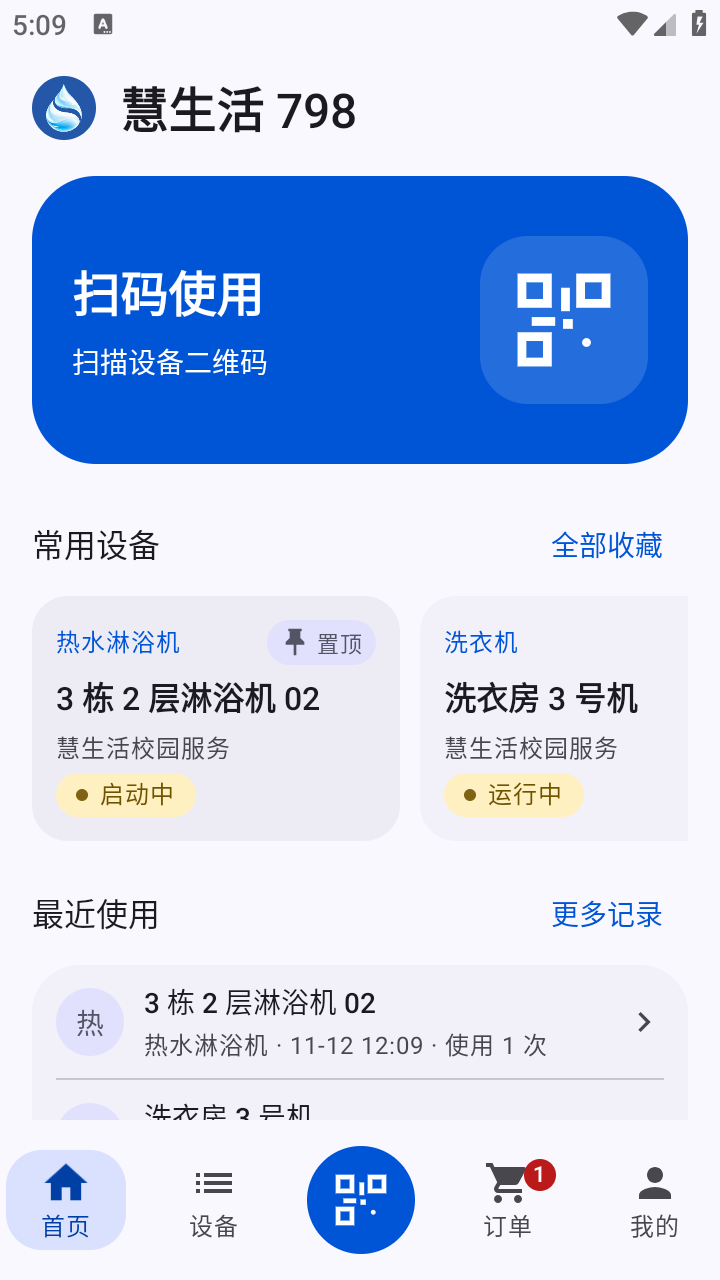
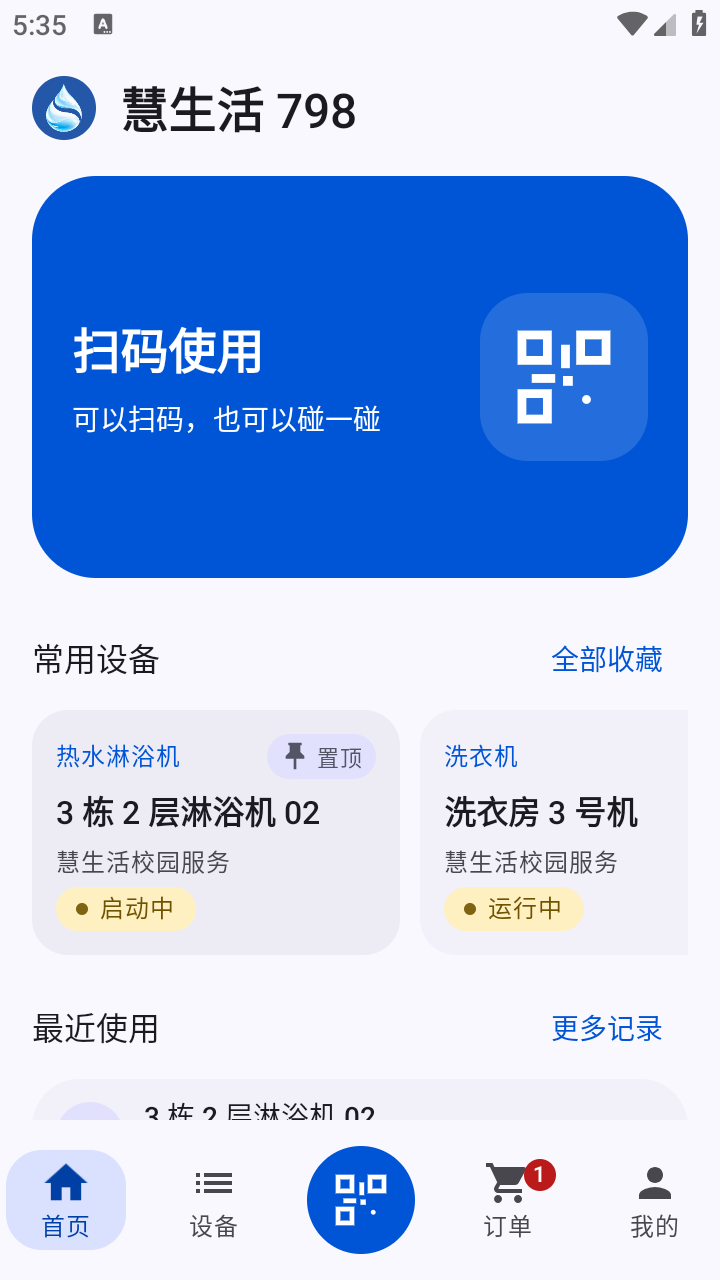
fix(ui): 恢复重构前扫码卡高度并补充碰一碰文案

diff --git a/SmartLife798/app/src/androidTest/java/com/smartlife798/app/VisualAlignmentChecks.kt b/SmartLife798/app/src/androidTest/java/com/smartlife798/app/VisualAlignmentChecks.kt
@@ -12,6 +12,7 @@ import androidx.activity.compose.setContent
 import androidx.lifecycle.ViewModelProvider
 import com.smartlife798.app.core.*
 import com.smartlife798.app.vm.MainViewModel
+import kotlin.math.roundToInt
 
 /** Capture the real navigation in light/dark themes, using only the runner's terminal fixtures. */
 object VisualAlignmentChecks {
@@ -58,6 +59,7 @@ object VisualAlignmentChecks {
                 if (theme != ThemeMode.LIGHT) open("首页")
                 stage = "home content $theme"
                 await { find(test, "扫码使用") != null }
+                check(find(test, "可以扫码，") != null && find(test, "也可以碰一碰") != null)
                 if (theme == ThemeMode.LIGHT) {
                     stage = "pinned home card retains its height"
                     await { vm.favorites.value.size >= 2 }
@@ -68,7 +70,11 @@ object VisualAlignmentChecks {
                     val height = test.targetContext.resources.displayMetrics.heightPixels
                     val density = test.targetContext.resources.displayMetrics.density
                     val scanCard = cardBounds(test, "扫码使用")
-                    check(scanCard.height() >= (144 * density).toInt()) { "Scan entry is too short: $scanCard" }
+                    val scanHeight = (201 * density).roundToInt()
+                    val fontScale = test.targetContext.resources.configuration.fontScale
+                    check(scanCard.height() >= scanHeight && (fontScale > 1f || scanCard.height() == scanHeight)) {
+                        "Unexpected scan card height: $scanCard"
+                    }
                     shell(test, "input swipe ${width / 2} ${height * 3 / 4} ${width / 2} ${height / 2} 250")
                     SystemClock.sleep(300)
                     val before = cardBounds(test, first.name)
@@ -76,7 +82,6 @@ object VisualAlignmentChecks {
                     check(before.left == scanCard.left && before.width() >= (174 * density).toInt()) {
                         "Favorite card is too narrow or misaligned: $before, scan=$scanCard"
                     }
-                    val fontScale = test.targetContext.resources.configuration.fontScale
                     if (fontScale <= 1f && scanCard.width() >= (288 * density).toInt()) {
                         check(scanCard.right - before.right >= (96 * density).toInt()) {
                             "Favorite card leaves too little room for the next device: $before, scan=$scanCard"

diff --git a/SmartLife798/app/src/main/java/com/smartlife798/app/ui/HomeScreen.kt b/SmartLife798/app/src/main/java/com/smartlife798/app/ui/HomeScreen.kt
@@ -286,7 +286,7 @@ private fun ScanHeroCard(onScan: () -> Unit, modifier: Modifier = Modifier) {
         Row(
             modifier = Modifier
                 .fillMaxWidth()
-                .heightIn(min = 144.dp)
+                .heightIn(min = 201.dp)
                 .padding(horizontal = 20.dp, vertical = AppLayout.Card),
             verticalAlignment = Alignment.CenterVertically,
             horizontalArrangement = Arrangement.spacedBy(16.dp),
@@ -297,7 +297,10 @@ private fun ScanHeroCard(onScan: () -> Unit, modifier: Modifier = Modifier) {
                     style = MaterialTheme.typography.headlineSmall,
                     fontWeight = FontWeight.SemiBold,
                 )
-                Text("扫描设备二维码", style = MaterialTheme.typography.bodyMedium)
+                FlowRow {
+                    Text("可以扫码，", style = MaterialTheme.typography.bodyMedium)
+                    Text("也可以碰一碰", style = MaterialTheme.typography.bodyMedium)
+                }
             }
             Box(
                 modifier = Modifier

diff --git a/docs/02-功能设计与UI方案.md b/docs/02-功能设计与UI方案.md
@@ -150,7 +150,7 @@ App
 - 顶部显示应用图标与「慧生活 798」，页面沿统一边距对齐，普通分组间隔为 12dp，支持下拉刷新。
 - **进行中使用卡片**优先置于扫码入口上方（主题 tertiary 色）：受理后先显示「启动待确认」，不显示用时或声称运行；确认后显示服务端状态、更新时间与本机用时。结束使用为卡片主按钮，下方提供查看设备和使用记录。结束期间保持卡片和「正在结束…」；未确认则提示并保留查询入口。返回首页与重建恢复、轮询及并发规则见 [启动确认与对账](03-技术方案与开发计划.md#31-全自动刷新无手动刷新按钮)。
 
-- **扫码主卡**：左侧放操作标题与说明，右侧放二维码图标，整卡最小高度为 144dp，上下与相邻区块至少间隔 16dp，点击卡片打开相机。
+- **扫码主卡**：左侧放操作标题与「可以扫码，也可以碰一碰」说明，右侧放二维码图标。整卡最小高度为重构前的 201dp，大字时随文案增高，上下与相邻区块至少间隔 16dp。点击卡片打开相机，碰一碰使用受支持的慧生活 NFC 卡片。
 - **常用设备**采用横滑卡片。多个收藏时，360dp 默认字号下单卡宽 184dp，让下一台设备露出更多；内容区能容纳两张易读卡片时并排完整展示。窄屏大字下卡片随字号加宽，单个收藏时占满内容区。卡片显示类型、名称、位置或编号、状态及置顶标记。
 - **最近使用**在同一容器中列出最多四条记录，使用紧凑的分隔行，每行触控区域至少 48dp；显示设备名称、类型、日期时间和使用次数。
 - 常用设备为空时提示从设备详情收藏，最近使用为空时提示暂无记录。
@@ -361,7 +361,7 @@ App
 
 | 页面 | 文件 | 来源与限制 |
 |---|---|---|
-| 首页 | [home.png](../screenshots/home.png) | 2.2.10 / 90 离线开发构建，API 28，默认字号 |
+| 首页 | [home.png](../screenshots/home.png) | 2.2.11 / 91 离线开发构建，API 28，默认字号 |
 | 设备 | [devices.png](../screenshots/devices.png) | 2.1.1，浅色列表、置顶优先与可辨识的未选中按钮 |
 | 订单 | [orders.png](../screenshots/orders.png) | 2.1.1，普通记录 |
 | 待付款 | [preview_bills.png](../screenshots/preview_bills.png) | 2.1.1，账单筛选 |
@@ -373,7 +373,7 @@ App
 | 提示条 | [notice.png](../screenshots/notice.png) | 1.19.6，真实 Snackbar + 虚构签到响应 |
 | 账单详情 | [bill_detail.png](../screenshots/bill_detail.png) | 当前离线开发构建，固定视口、左暂不支付右去支付且等宽等高 |
 | 浅色支付面板 | [payment.png](../screenshots/payment.png) | 2.1.1，仅读取渠道，零付款/命令请求 |
-| 深色首页 | [dark.png](../screenshots/dark.png) | 2.2.10 / 90 离线开发构建，API 28，默认字号 |
+| 深色首页 | [dark.png](../screenshots/dark.png) | 2.2.11 / 91 离线开发构建，API 28，默认字号 |
 | 深色外观 | [appearance_dark.png](../screenshots/appearance_dark.png) | 本次样式开发构建 2.1.2 / 70，API 28，深色更新按钮与选项层级 |
 | 深色支付面板 | [payment_dark.png](../screenshots/payment_dark.png) | 2.1.1，未提交付款 |
 | 首次使用 | [guide-first.png](../screenshots/guide-first.png) | 2.1.1，独立离线包，三页基础卡 |

diff --git a/README.md b/README.md
@@ -6,7 +6,7 @@
 |---|---|
 | 正式版包名 | `com.smartlife798.app` |
 | Beta 版包名 | `com.smartlife798.app.debug` |
-| 当前版本 | `2.2.10`（`versionCode 90`） |
+| 当前版本 | `2.2.11`（`versionCode 91`） |
 | 技术栈 | Kotlin 2.2 · Jetpack Compose (Material 3 Expressive) · OkHttp · CameraX + ML Kit · Alipay SDK |
 | 最低版本 | Android 7.0（API 24） |
 | 正式发布 | [最新 Release](https://github.com/wu-shanglin/Smartlife798/releases/latest) |
@@ -15,7 +15,7 @@
 
 ## 当前版本
 
-**2.2.10 / 90**（开发候选）：首页扫码卡采用左侧文字、右侧二维码图标的布局。
+**2.2.11 / 91**（开发候选）：首页扫码卡恢复重构前的 201dp 最小高度，并提示可扫码或碰一碰。
 
 **2.1.11 / 79** 适配原版 3.1.10 短信登录签名，补齐登录请求的 `sign` 参数。签名通过原版合成向量及离线登录验证，真实账号验收待完成。详见 [登录签名](docs/01-逆向分析报告.md#51-登录与账号)。
 
@@ -49,13 +49,13 @@
 
 ## 构建与产物
 
-2.2.10 为开发候选版本，日常试装使用独立 Debug 包。
+2.2.11 为开发候选版本，日常试装使用独立 Debug 包。
 
 唯一 Android 工程为 `SmartLife798/`；先按 [构建与运行](docs/03-技术方案与开发计划.md#4-构建与运行) 准备 JDK/SDK、本机 `local.properties`，再按 [检查与证据](docs/06-工程规范与路线图.md#2-检查与证据) 执行适用检查。release 签名及产物准备见 [版本与发布](docs/06-工程规范与路线图.md#3-版本与发布)。
 
 | 本地构建 | 文件 |
 |---|---|
-| 产物 | [`dist/SmartLife798-2.2.10-release.apk`](dist/SmartLife798-2.2.10-release.apk) |
+| 产物 | [`dist/SmartLife798-2.2.11-release.apk`](dist/SmartLife798-2.2.11-release.apk) |
 
 日常试装使用 `SmartLife798/app/build/outputs/apk/debug/app-debug.apk`。桌面的「慧生活 798 Beta 版」可与正式版并存，分别保存应用数据。上表是正式发布时的产物路径，只有明确授权打包 Release 并发布后才生成。
 
@@ -65,7 +65,7 @@
 
 ## 截图
 
-浅色和深色首页截图来自 2.2.10 / 90 的 API 28 离线构建，设备详情截图来自 2.2.9 / 89；其他主要截图来自 2.1.1 / 69 候选的独立 `.offline` 夹具，使用真实 Compose 页面与终止式传输采集；此前默认字号与窄屏大字完成操作回归，不代表真机帧率、签到、充值或支付验收。提示条保留历史夹具来源。来源与限制见 [截图清单](docs/02-功能设计与UI方案.md#7-界面截图)。
+浅色和深色首页截图来自 2.2.11 / 91 的 API 28 离线构建，设备详情截图来自 2.2.9 / 89；其他主要截图来自 2.1.1 / 69 候选的独立 `.offline` 夹具，使用真实 Compose 页面与终止式传输采集；此前默认字号与窄屏大字完成操作回归，不代表真机帧率、签到、充值或支付验收。提示条保留历史夹具来源。来源与限制见 [截图清单](docs/02-功能设计与UI方案.md#7-界面截图)。
 
 | 首页 | 设备 | 订单 |
 |---|---|---|

diff --git a/CHANGELOG.md b/CHANGELOG.md
@@ -7,6 +7,8 @@
 
 ## [Unreleased]
 
+- 同步扫码卡高度、说明和浅色、深色首页截图。
+
 - 同步扫码卡内部排版说明与浅色、深色首页截图。
 
 - 同步首页扫码卡、设备详情操作区的设计说明与截图。
@@ -33,6 +35,12 @@
 - 核对 2.1.10 正式发布及公开更新附件。
 
 - 任务分支完成后同步清理已合并且不再使用的本地和远端分支。
+
+## [2.2.11] - 2026-11-12
+
+> Beta 构建，未正式发布。
+
+- 首页扫码卡恢复重构前的 201dp 最小高度，补充「可以扫码，也可以碰一碰」说明。
 
 ## [2.2.10] - 2026-11-12
 
